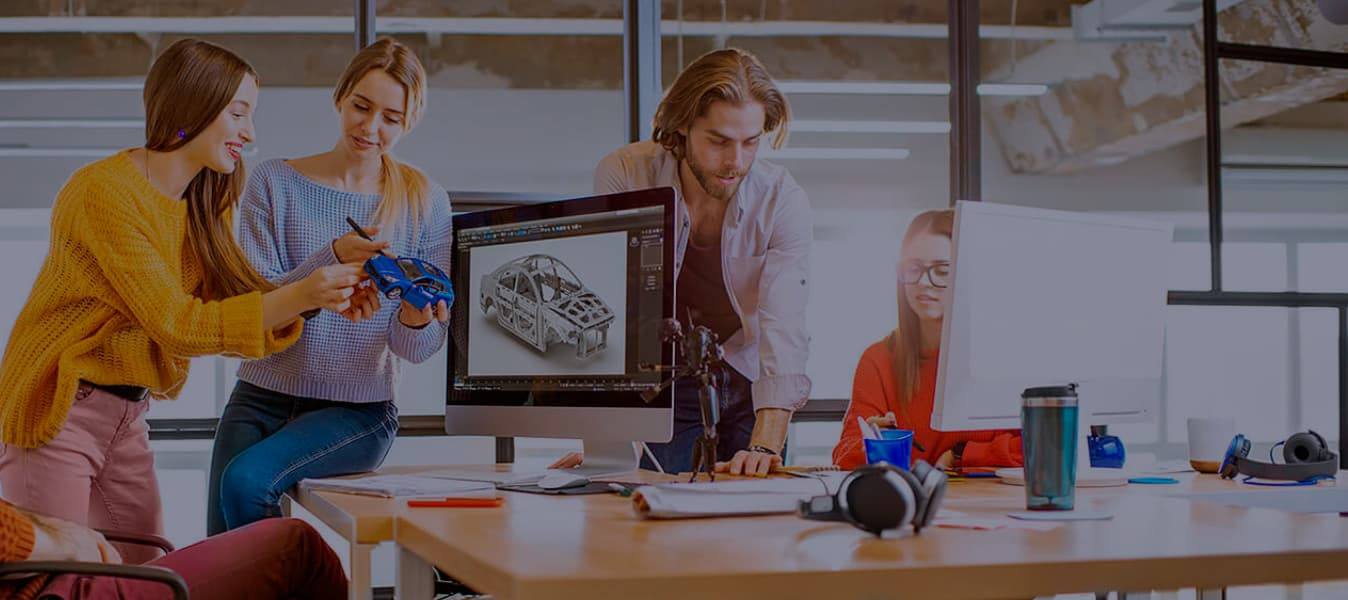
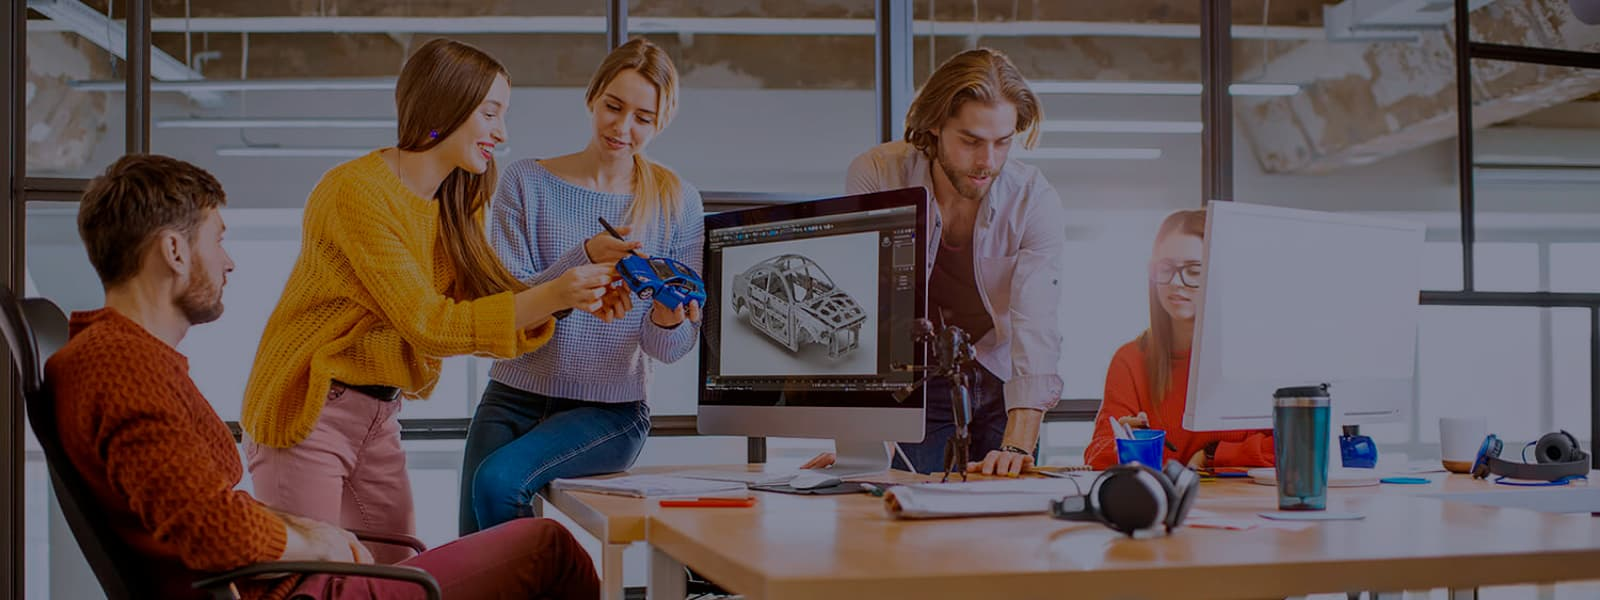
Homework-4-2/2

diff --git a/portfolio.html b/portfolio.html
@@ -22,15 +22,15 @@
                 <a class="logo" href="./index.html"> <span class="logo-web">Web</span><span
                         class="logo-studio">Studio</span></a>
                 <ul class="site-nav">
-                    <li class="site-title"> <a href="./index.html" class=" link item">Студія</a> </li>
-                    <li class="site-title"> <a href="./portfolio.html" class="link current item ">Портфоліо</a> </li>
+                    <li class="site-title"> <a href="./index.html" class=" link current item">Студія</a> </li>
+                    <li class="site-title"> <a href="./portfolio.html" class="link item ">Портфоліо</a> </li>
                     <li class="site-title"> <a href="" class="link item">Контакти</a> </li>
                 </ul>
             </nav>
             <ul class="contacs ">
-            
+    
                 <li class="site-title">
-            
+    
                     <a class="link link-contacts" href="mailto:info@devstudio.com">
                         <svg class="icon-сontacts" width="16" height="12">
                             <use href="./images/icon.svg#icon-mail"></use>
@@ -38,16 +38,14 @@
                         info@devstudio.com</a>
                 </li>
                 <li class="site-title">
-                    <a class="link link-contacts" href="tel:+380961111111"> <svg class="icon-сontacts" width="16" height="12">
+                    <a class="link link-contacts" href="tel:+380961111111">
+                        <svg class="icon-сontacts" width="10" height="16">
                             <use href="./images/icon.svg#icon-smartphone"></use>
                         </svg>
                         +38 096 111 11 11</a>
                 </li>
             </ul>
         </div>
-    
-    
-    
     </header>
    
     <main>
@@ -135,61 +133,61 @@
         </section>
         
     </main>
-    <footer class="address">
-        <div class=" container footer-container ">
-            <div class="footer-container-first"><a class="logo logo-address" href="./index.html"> <span class="logo-web">Web</span><span
-                        class="logo-footer">Studio</span></a>
-                <address>
-                    <ul class="nav-address">
-                        <li class="nav-item"><a class="link-footer maps" href="https://goo.gl/maps/FgdQjG2x2mxrf8Yn7"
-                                rel="noopener noreferrer nofollow">м. Київ, пр-т Лесі Українки, 26</a> </li>
-                        <li class="nav-item"><a class="link-footer contacs"
-                                href="mailto:info@devstudio.com">info@devstudio.com</a> </li>
-                        <li class="nav-item"><a class="link-footer contacs" href="tel:+380961111111">+38 096 111 11 11</a>
-                        </li>
-                    </ul>
-                </address>
-            </div>
-    
-    
-            <div class="footer-icon-container">
-                <h4 class="footer-icon-title">приєднуйтесь</h4>
-                <ul class="footer-icon">
-    
-                    <li class="footer-icon-items">
-                        <a class="footer-icon-link" href="#">
-                            <svg class="icon-social" width="20" height="20">
-                                <use href="./images/icon.svg#icon-instagram"></use>
-                            </svg></a>
-                    </li>
-                    <li class="footer-icon-items">
-    
-                        <a class="footer-icon-link" href="#">
-                            <svg width="20" height="20">
-                                <use href="./images/icon.svg#icon-twitter"></use>
-                            </svg>
-                        </a>
-                    </li>
-                    <li class="footer-icon-items">
-    
-                        <a class="footer-icon-link" href="#"> <svg width="20" height="20">
-                                <use href="./images/icon.svg#icon-facebook"></use>
-                            </svg>
-                        </a>
-                    <li class="footer-icon-items">
-    
-                        <a class="footer-icon-link" href="#">
-                            <svg width="20" height="20">
-                                <use href="./images/icon.svg#icon-linkedin"></use>
-                            </svg>
-                        </a>
+<footer class="address">
+    <div class=" container footer-container ">
+        <div class="footer-container-first"><a class="logo logo-address" href="./index.html"> <span
+                    class="logo-web">Web</span><span class="logo-footer">Studio</span></a>
+            <address>
+                <ul class="nav-address">
+                    <li class="nav-item"><a class="link-footer maps" href="https://goo.gl/maps/FgdQjG2x2mxrf8Yn7"
+                            rel="noopener noreferrer nofollow">м. Київ, пр-т Лесі Українки, 26</a> </li>
+                    <li class="nav-item"><a class="link-footer contacs"
+                            href="mailto:info@devstudio.com">info@devstudio.com</a> </li>
+                    <li class="nav-item"><a class="link-footer contacs" href="tel:+380961111111">+38 096 111 11 11</a>
                     </li>
                 </ul>
-            </div>
-    
-    
+            </address>
         </div>
-    </footer>
+
+
+        <div>
+            <h4 class="footer-icon-title">приєднуйтесь</h4>
+            <ul class="footer-icon">
+
+                <li class="footer-icon-items">
+                    <a class="footer-icon-link" href="#">
+                        <svg class="icon-social" width="20" height="20">
+                            <use href="./images/icon.svg#icon-instagram"></use>
+                        </svg></a>
+                </li>
+                <li class="footer-icon-items">
+
+                    <a class="footer-icon-link" href="#">
+                        <svg width="20" height="20">
+                            <use href="./images/icon.svg#icon-twitter"></use>
+                        </svg>
+                    </a>
+                </li>
+                <li class="footer-icon-items">
+
+                    <a class="footer-icon-link" href="#"> <svg width="20" height="20">
+                            <use href="./images/icon.svg#icon-facebook"></use>
+                        </svg>
+                    </a>
+                <li class="footer-icon-items">
+
+                    <a class="footer-icon-link" href="#">
+                        <svg width="20" height="20">
+                            <use href="./images/icon.svg#icon-linkedin"></use>
+                        </svg>
+                    </a>
+                </li>
+            </ul>
+        </div>
+
+
+    </div>
+</footer>
     
     
 </body>

diff --git a/css/styles.css b/css/styles.css
@@ -131,6 +131,7 @@ img{
 }
 .icon-сontacts{
     margin-right: 10px;
+    fill: currentColor;
 
 }
 .link-contacts{
@@ -144,7 +145,7 @@ img{
 .contacs .link:hover,
 .contacs .link:focus{
     color: var(--accent-color); 
-    fill: var(--accent-color);
+    
 }
 
  
@@ -161,12 +162,13 @@ background-image: linear-gradient(
  url(../images/hero.jpg);
 
     width: 1600px;
-    height: 600px;
     padding-top: 200px;
     padding-bottom: 200px;
+    margin: 0 auto;
 
     background-repeat: no-repeat;
     background-size: cover;
+    background-position: center;
     
     
      
@@ -242,7 +244,7 @@ background-image: linear-gradient(
     display: flex;
     align-items: center;
     justify-content: center;
-    width: 270px;
+    
     height: 120px;
 
     background: #F5F4FA;
@@ -333,10 +335,9 @@ background-image: linear-gradient(
 }
 .team-icon{
     display: flex;
-    justify-content:space-evenly;
+    justify-content: center;
     margin-top: 16px;
-    padding-right: 32px;
-    padding-left: 32px;
+    
    
 }
 .team-icon-items{
@@ -416,18 +417,19 @@ background-image: linear-gradient(
 /* Section Footer */
 .address{   
      background: #2F303A;
-     /* padding-bottom: 60px;
-     padding-top: 60px; */
-     /* height: 252px; ; */
+     padding-bottom: 60px;
+     padding-top: 60px;
+     height: 252px; ;
      display: flex;
 }
 .footer-container{
     display: flex;
+    align-items: baseline;
     
 }
 .footer-container-first{
-    padding-bottom: 60px;
-    padding-top: 60px;
+    min-width: 231px;
+    margin-right: 70px;
 }
 
 .footer-adress-section{
@@ -480,9 +482,9 @@ background-image: linear-gradient(
 
 /* Cоціальні іконки Футер */
 .footer-icon-container{
-    padding-top: 72px;
+    /* padding-top: 72px;
     padding-bottom: 100px;
-    margin-left: 70px;
+    margin-left: 70px; */
 
     
 }
@@ -499,9 +501,7 @@ background-image: linear-gradient(
 .footer-icon {
     display: flex;
     justify-content: space-evenly;
-    /* margin-top: 16px;
-    padding-right: 32px;
-    padding-left: 32px; */
+    
 
 }
 
@@ -521,7 +521,7 @@ background-image: linear-gradient(
     display: flex;
     justify-content: center;
     align-items: center;
-    fill: #AFB1B8;
+    fill: var(--primary-white-color);
 
     background: rgba(255, 255, 255, 0.1);
     border-radius: 50%;
@@ -600,6 +600,9 @@ background-image: linear-gradient(
 .container-web:nth-last-child(-n + 3) {
    margin-bottom: 0px;
   }
+.container-web:hover{
+    box-shadow: 0px 1px 1px rgba(0, 0, 0, 0.12), 0px 4px 4px rgba(0, 0, 0, 0.06), 1px 4px 6px rgba(0, 0, 0, 0.16)
+}
 .container-text{
     border: 1px solid #EEEEEE;
     padding-top: 20px;

diff --git a/index.html b/index.html
@@ -33,7 +33,8 @@
                         </svg>
                         info@devstudio.com</a></li>
                 <li class="site-title">
-                    <a class="link link-contacts" href="tel:+380961111111"> <svg class="icon-сontacts" width="16" height="12"  >
+                    <a class="link link-contacts" href="tel:+380961111111"> 
+                        <svg class="icon-сontacts" width="10" height="16"  >
                         <use href="./images/icon.svg#icon-smartphone"></use>
                     </svg>
                      +38 096 111 11 11</a></li>
@@ -262,8 +263,9 @@
             </ul>
             </div>
         </section>
-        <section class="container section">
-            <h3 class="clients-title">Постійні клієнти</h3>
+        <section class="section">
+            <div class="container">
+            <h2 class="clients-title">Постійні клієнти</h2>
             <ul class="clients-list">
                 
                 <li class="clients-container">
@@ -314,7 +316,7 @@
                 </li>
              
             </ul>
-            
+            </div>
             
         </section>
 
@@ -333,7 +335,7 @@
             </div>
         
         
-        <div class="footer-icon-container">
+        <div>
         <h4 class="footer-icon-title">приєднуйтесь</h4>
         <ul class="footer-icon">
         
